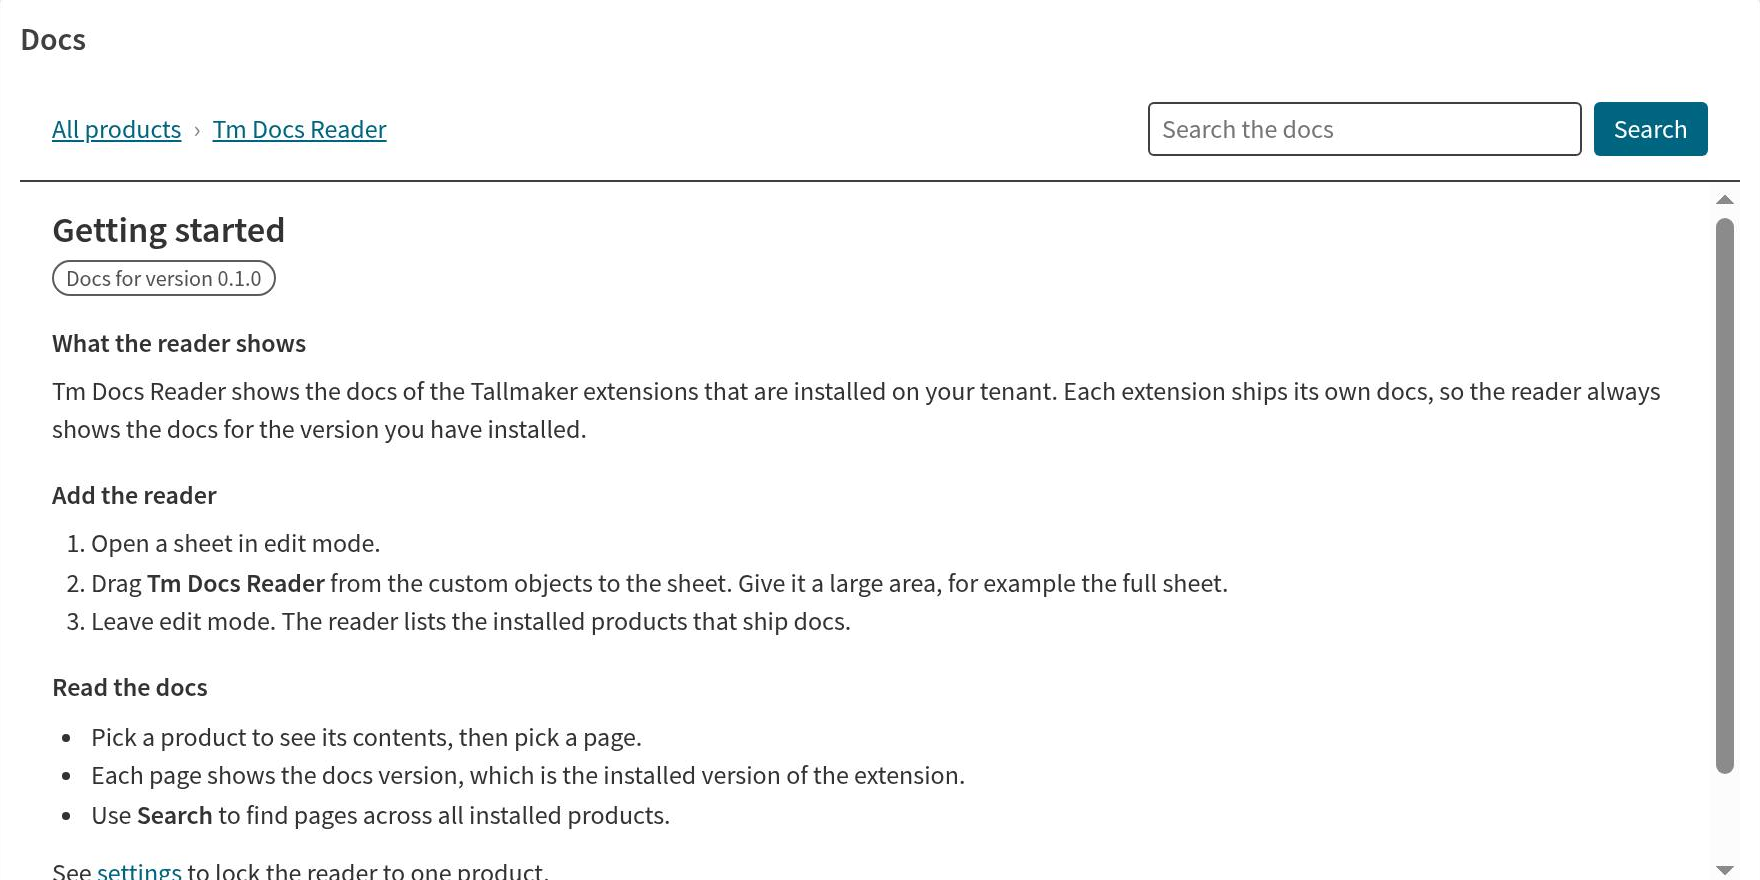
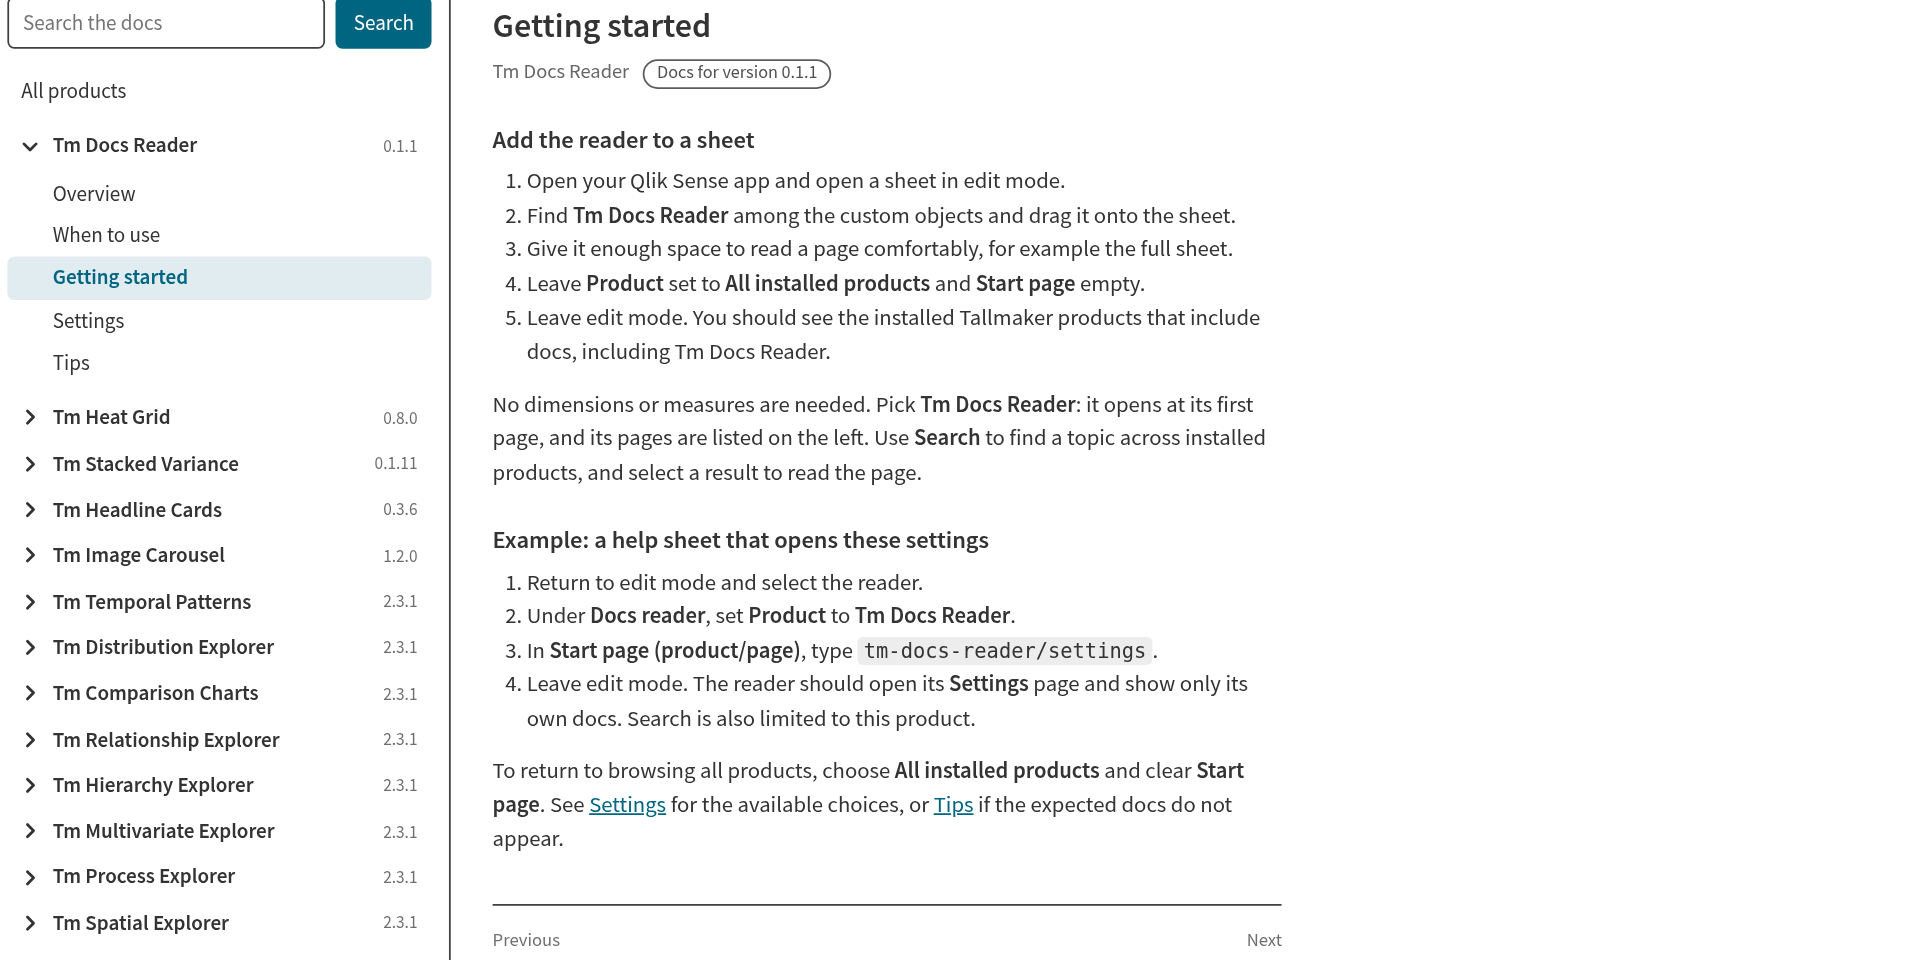
Listing for Tm Docs Reader 0.1.1: five-page end-user docs, two-pane pictures, English only

diff --git a/listing/products/tm-docs-reader/docs/en/settings.md b/listing/products/tm-docs-reader/docs/en/settings.md
@@ -2,14 +2,36 @@
 title: Settings
 ---
 
-## Product
+Select the reader while editing a sheet to open its property panel. The sections below follow the panel order.
 
-Choose one product to lock the reader to its docs. The reader then skips the product index and opens the contents of that product. Search finds only that product's pages.
+## Docs reader
 
-Leave **All installed products** to show every installed Tallmaker product that ships docs.
+### Product
 
-A locked reader suits a demo app for one extension: put the reader on a help sheet of that app.
+Choose **All installed products** or a named Tallmaker product from the list. The default is **All installed products**: the reader opens the product list, and search covers installed products that include docs.
 
-## Start page
+Choose one product for a dedicated help sheet. This locks browsing and search to that product and skips the product list. A product must be installed with docs to be readable; choosing its name does not install it.
 
-Opens a page first. Write it as `product/page`, for example `tm-docs-reader/settings`. A start page that does not exist opens the contents of its product.
+### Start page (product/page)
+
+Choose the page to open first. The default is empty: the reader opens the product list, or the selected product's first page when **Product** is set to one product.
+
+Enter a product and page separated by a slash, for example `tm-docs-reader/settings`. Use this when a help sheet should open at a particular topic. A product alone, such as `tm-docs-reader`, opens that product's first page. Page names must match the product's docs; a missing page falls back to that product's first page.
+
+When **Product** locks the reader to one product, the start page must belong to that same product. A start page for another product is ignored. Clear the field to return to the usual opening view.
+
+## Appearance
+
+Qlik provides the standard appearance controls for the sheet object, including its title, background and general presentation. The available controls, values and defaults depend on your Qlik Sense version and app theme; the reader adds no appearance settings of its own.
+
+Use these controls when the help sheet needs a clearer title or a presentation that matches the rest of your app. Keep enough contrast and space for comfortable reading.
+
+## About
+
+### Product information
+
+Shows the reader's name and installed version, that it is free and needs no licence, and that Tallmaker AS publishes it. This is read-only information with no value to change. Check it when you need to know which reader version you are using.
+
+### Tm Docs Reader link
+
+Opens the reader's page on the Tallmaker website. It is a fixed link with no setting to change.

diff --git a/listing/products/tm-docs-reader/docs/en/getting-started.md b/listing/products/tm-docs-reader/docs/en/getting-started.md
@@ -2,20 +2,21 @@
 title: Getting started
 ---
 
-## What the reader shows
+## Add the reader to a sheet
 
-Tm Docs Reader shows the docs of the Tallmaker extensions that are installed on your tenant. Each extension ships its own docs, so the reader always shows the docs for the version you have installed.
+1. Open your Qlik Sense app and open a sheet in edit mode.
+2. Find **Tm Docs Reader** among the custom objects and drag it onto the sheet.
+3. Give it enough space to read a page comfortably, for example the full sheet.
+4. Leave **Product** set to **All installed products** and **Start page** empty.
+5. Leave edit mode. You should see the installed Tallmaker products that include docs, including Tm Docs Reader.
 
-## Add the reader
+No dimensions or measures are needed. Pick **Tm Docs Reader**: it opens at its first page, and its pages are listed on the left. Use **Search** to find a topic across installed products, and select a result to read the page.
 
-1. Open a sheet in edit mode.
-2. Drag **Tm Docs Reader** from the custom objects to the sheet. Give it a large area, for example the full sheet.
-3. Leave edit mode. The reader lists the installed products that ship docs.
+## Example: a help sheet that opens these settings
 
-## Read the docs
+1. Return to edit mode and select the reader.
+2. Under **Docs reader**, set **Product** to **Tm Docs Reader**.
+3. In **Start page (product/page)**, type `tm-docs-reader/settings`.
+4. Leave edit mode. The reader should open its **Settings** page and show only its own docs. Search is also limited to this product.
 
-- Pick a product to see its contents, then pick a page.
-- Each page shows the docs version, which is the installed version of the extension.
-- Use **Search** to find pages across all installed products.
-
-See [settings](settings.md) to lock the reader to one product.
+To return to browsing all products, choose **All installed products** and clear **Start page**. See [Settings](settings.md) for the available choices, or [Tips](tips.md) if the expected docs do not appear.

diff --git a/listing/products/tm-docs-reader/docs/en/tips.md b/listing/products/tm-docs-reader/docs/en/tips.md
@@ -1,0 +1,29 @@
+---
+title: Tips
+---
+
+## I cannot find an installed product
+
+The reader lists installed Tallmaker products whose installed versions include docs. An older version may not include them yet. Ask your Qlik administrator whether a version with docs is available, then reload the app after an update.
+
+If the reader shows only one product, check **Docs reader → Product** in edit mode. Choose **All installed products** to browse the others.
+
+## Search does not find the topic I need
+
+Try a shorter word or the name of a setting. Search covers the installed products' docs, in English. If **Product** is set to one product, search covers only that product; choose **All installed products** to search more widely.
+
+## The reader opens the wrong page
+
+Check **Start page (product/page)** under **Docs reader**. For this guide's settings page, use `tm-docs-reader/settings`. If a page no longer exists, the reader opens the product's first page. Make sure the start page belongs to the product selected in **Product**, or clear the field to use the usual opening view.
+
+## I see “Docs are unavailable here”
+
+Open the app directly in the Qlik Sense client on Qlik Cloud. Embedded pages and mashups cannot read the other extensions' docs. Use the product documentation on the Tallmaker website when reading outside the client.
+
+## The docs look different after an update
+
+The docs follow the installed extension version. Reload the app after an extension update to see its new docs. The reader keeps no archive of previous versions.
+
+## I need another language or a PDF
+
+The reader currently offers English only. It has no print, PDF or story mode. Read the pages in the reader, or use documentation supplied separately for your product if you need another format.

diff --git a/listing/products/tm-docs-reader/docs/en/when-to-use.md b/listing/products/tm-docs-reader/docs/en/when-to-use.md
@@ -1,0 +1,21 @@
+---
+title: When to use
+---
+
+## Good fit when
+
+- You want people to learn about the Tallmaker extensions in an app without leaving Qlik Sense.
+- You want a help sheet dedicated to one product: choose it in **Product**.
+- You need help that matches the installed extension version.
+- You want to search the docs of several installed Tallmaker products in one place.
+
+## Not a good fit when
+
+- You want to display or analyse app data. Use a native Qlik table, bar chart or other chart suited to your question.
+- You want to write your own app instructions. Use a native Qlik text object for those notes.
+- You need help inside an embedded page or mashup. Read the product documentation on the Tallmaker website instead.
+- You need older-version docs or a printable manual. The reader has no version archive, print or PDF view; use documentation supplied separately for that version instead.
+
+## What it needs
+
+The reader needs no dimensions, measures or app data. Use it on a sheet in the Qlik Sense client on Qlik Cloud. A Tallmaker product appears when its installed version includes docs; installing the reader does not add docs to older versions of other extensions.

diff --git a/listing/products/tm-docs-reader/docs/en/overview.md b/listing/products/tm-docs-reader/docs/en/overview.md
@@ -1,0 +1,14 @@
+---
+title: Overview
+---
+
+Tm Docs Reader brings help for your installed Tallmaker extensions into your Qlik Sense app.
+
+Browse a product's pages or search for help across installed products that include docs. The reader is free and shows English docs for the installed version of each extension.
+
+## Start here
+
+- [When to use](when-to-use.md): decide whether the reader fits your app.
+- [Getting started](getting-started.md): add a reader to a sheet and open your first page.
+- [Settings](settings.md): focus on one product or choose an opening page.
+- [Tips](tips.md): find help with missing products, pages or search results.
